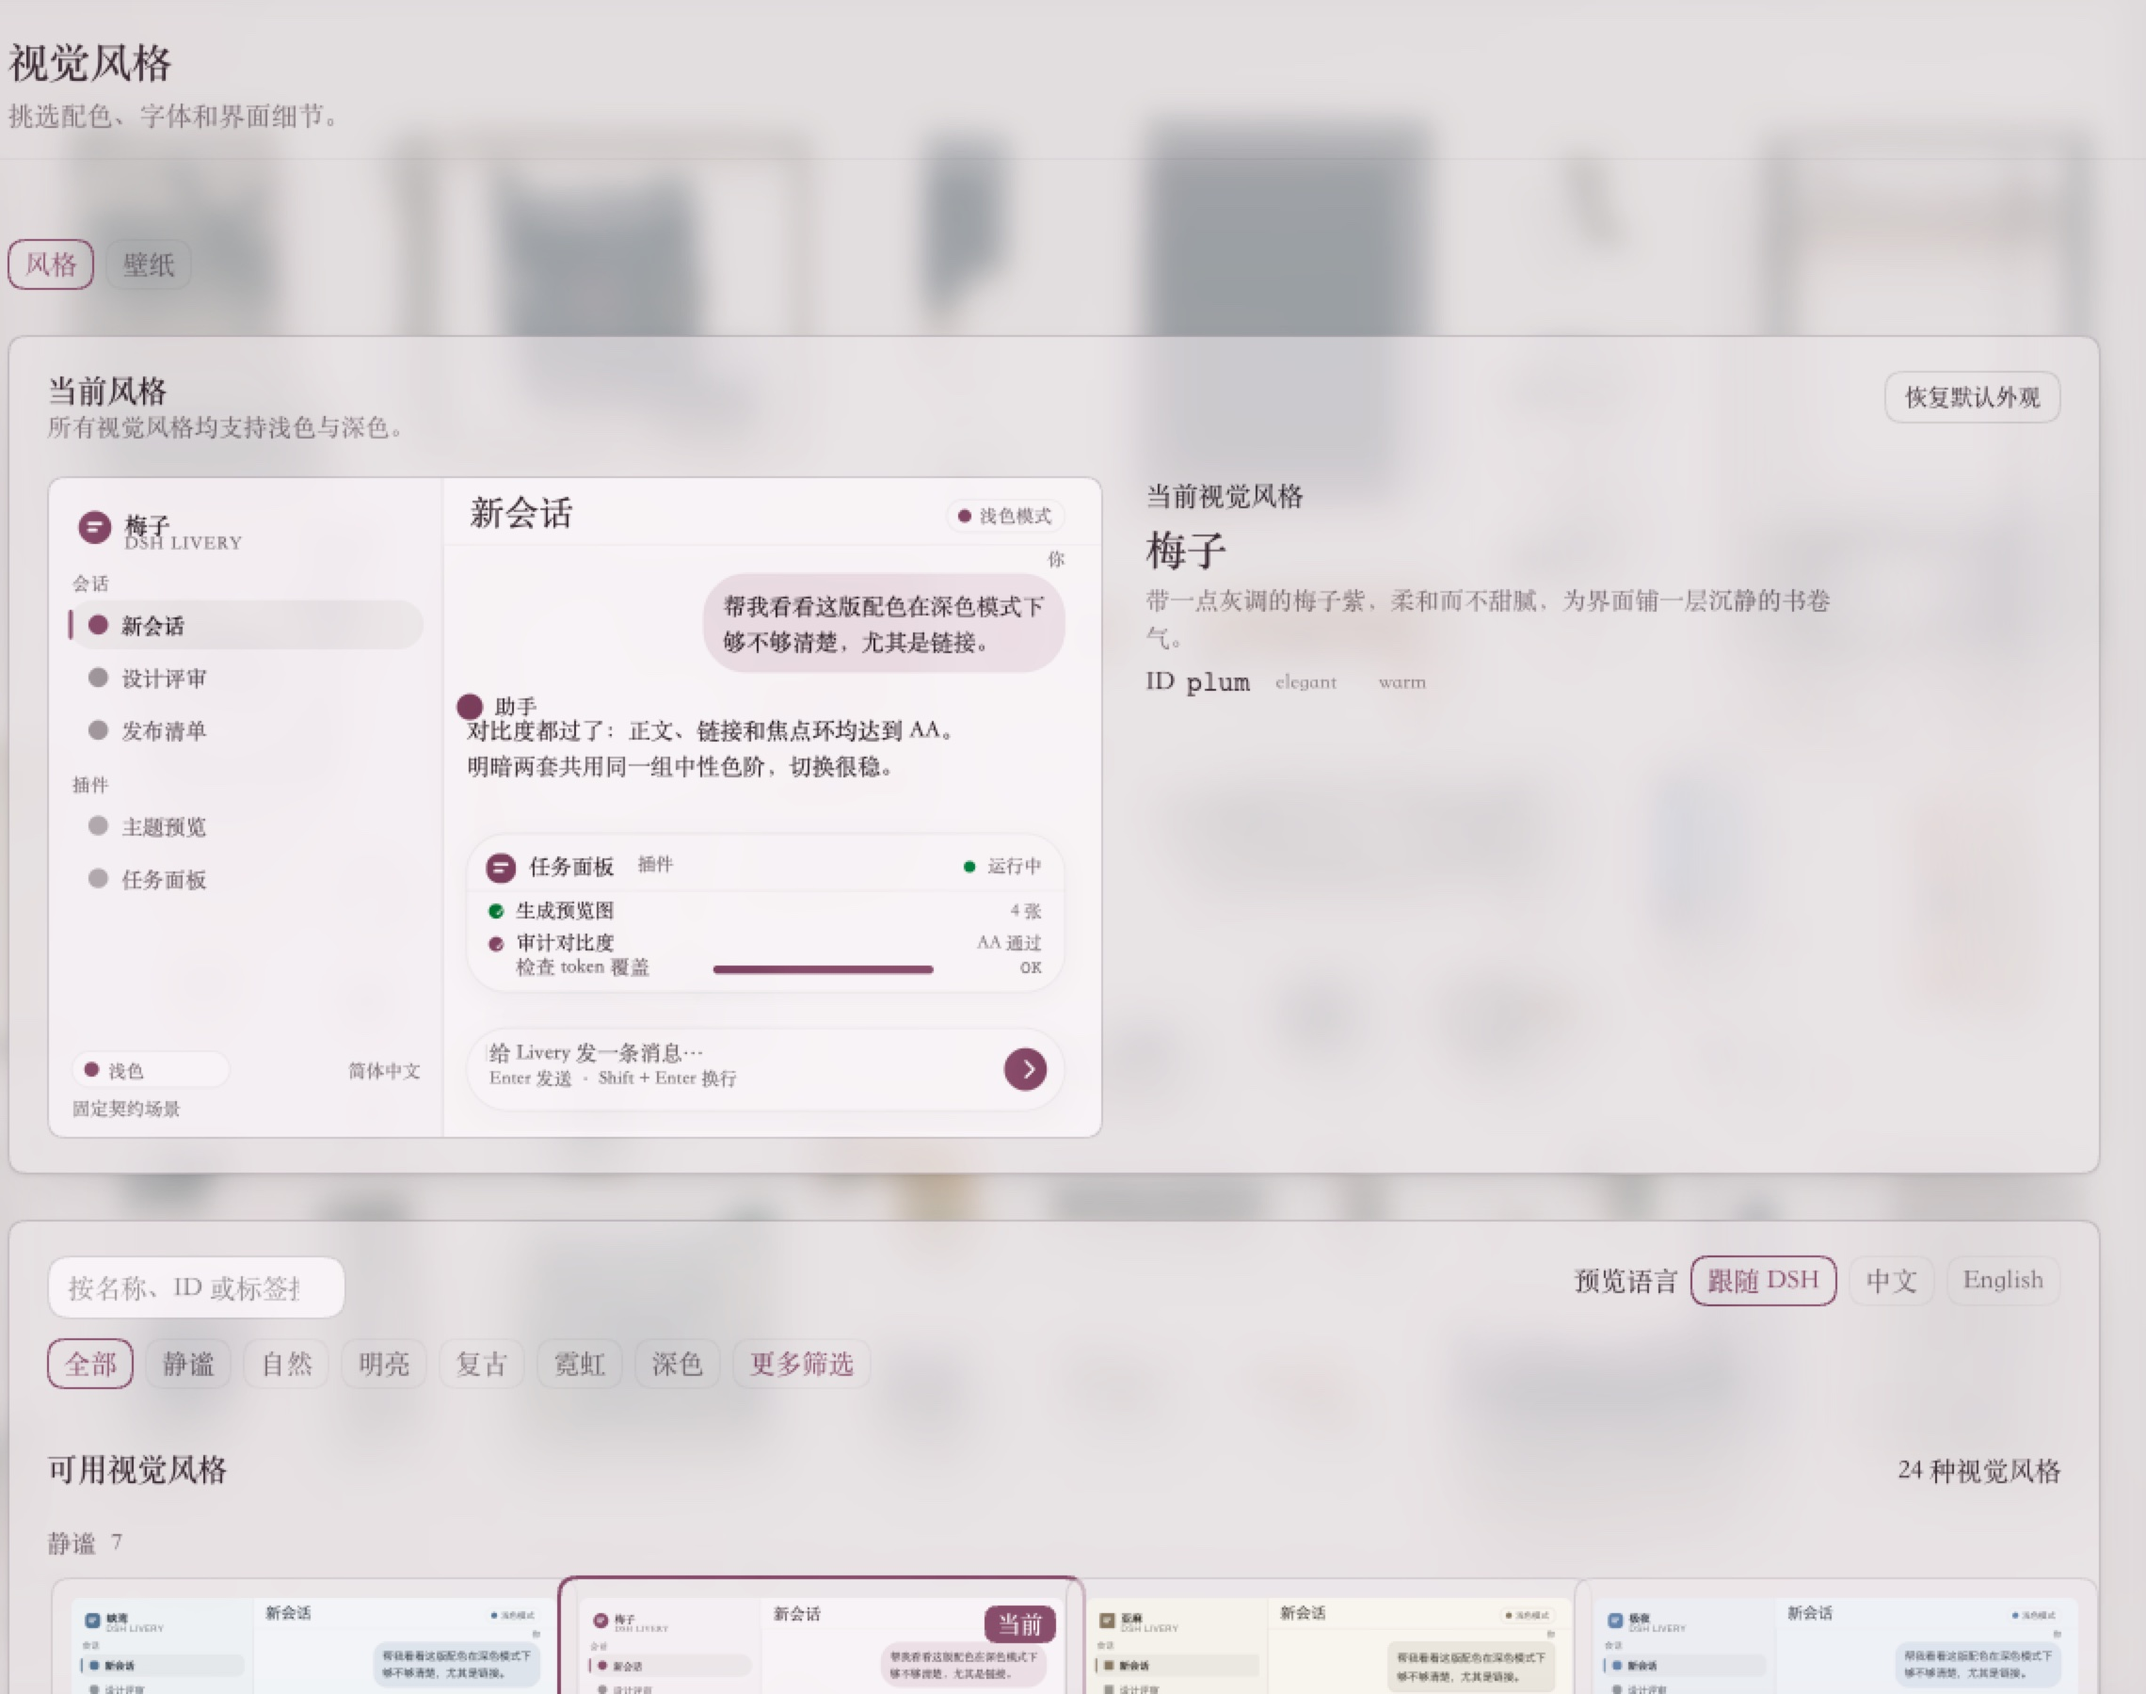
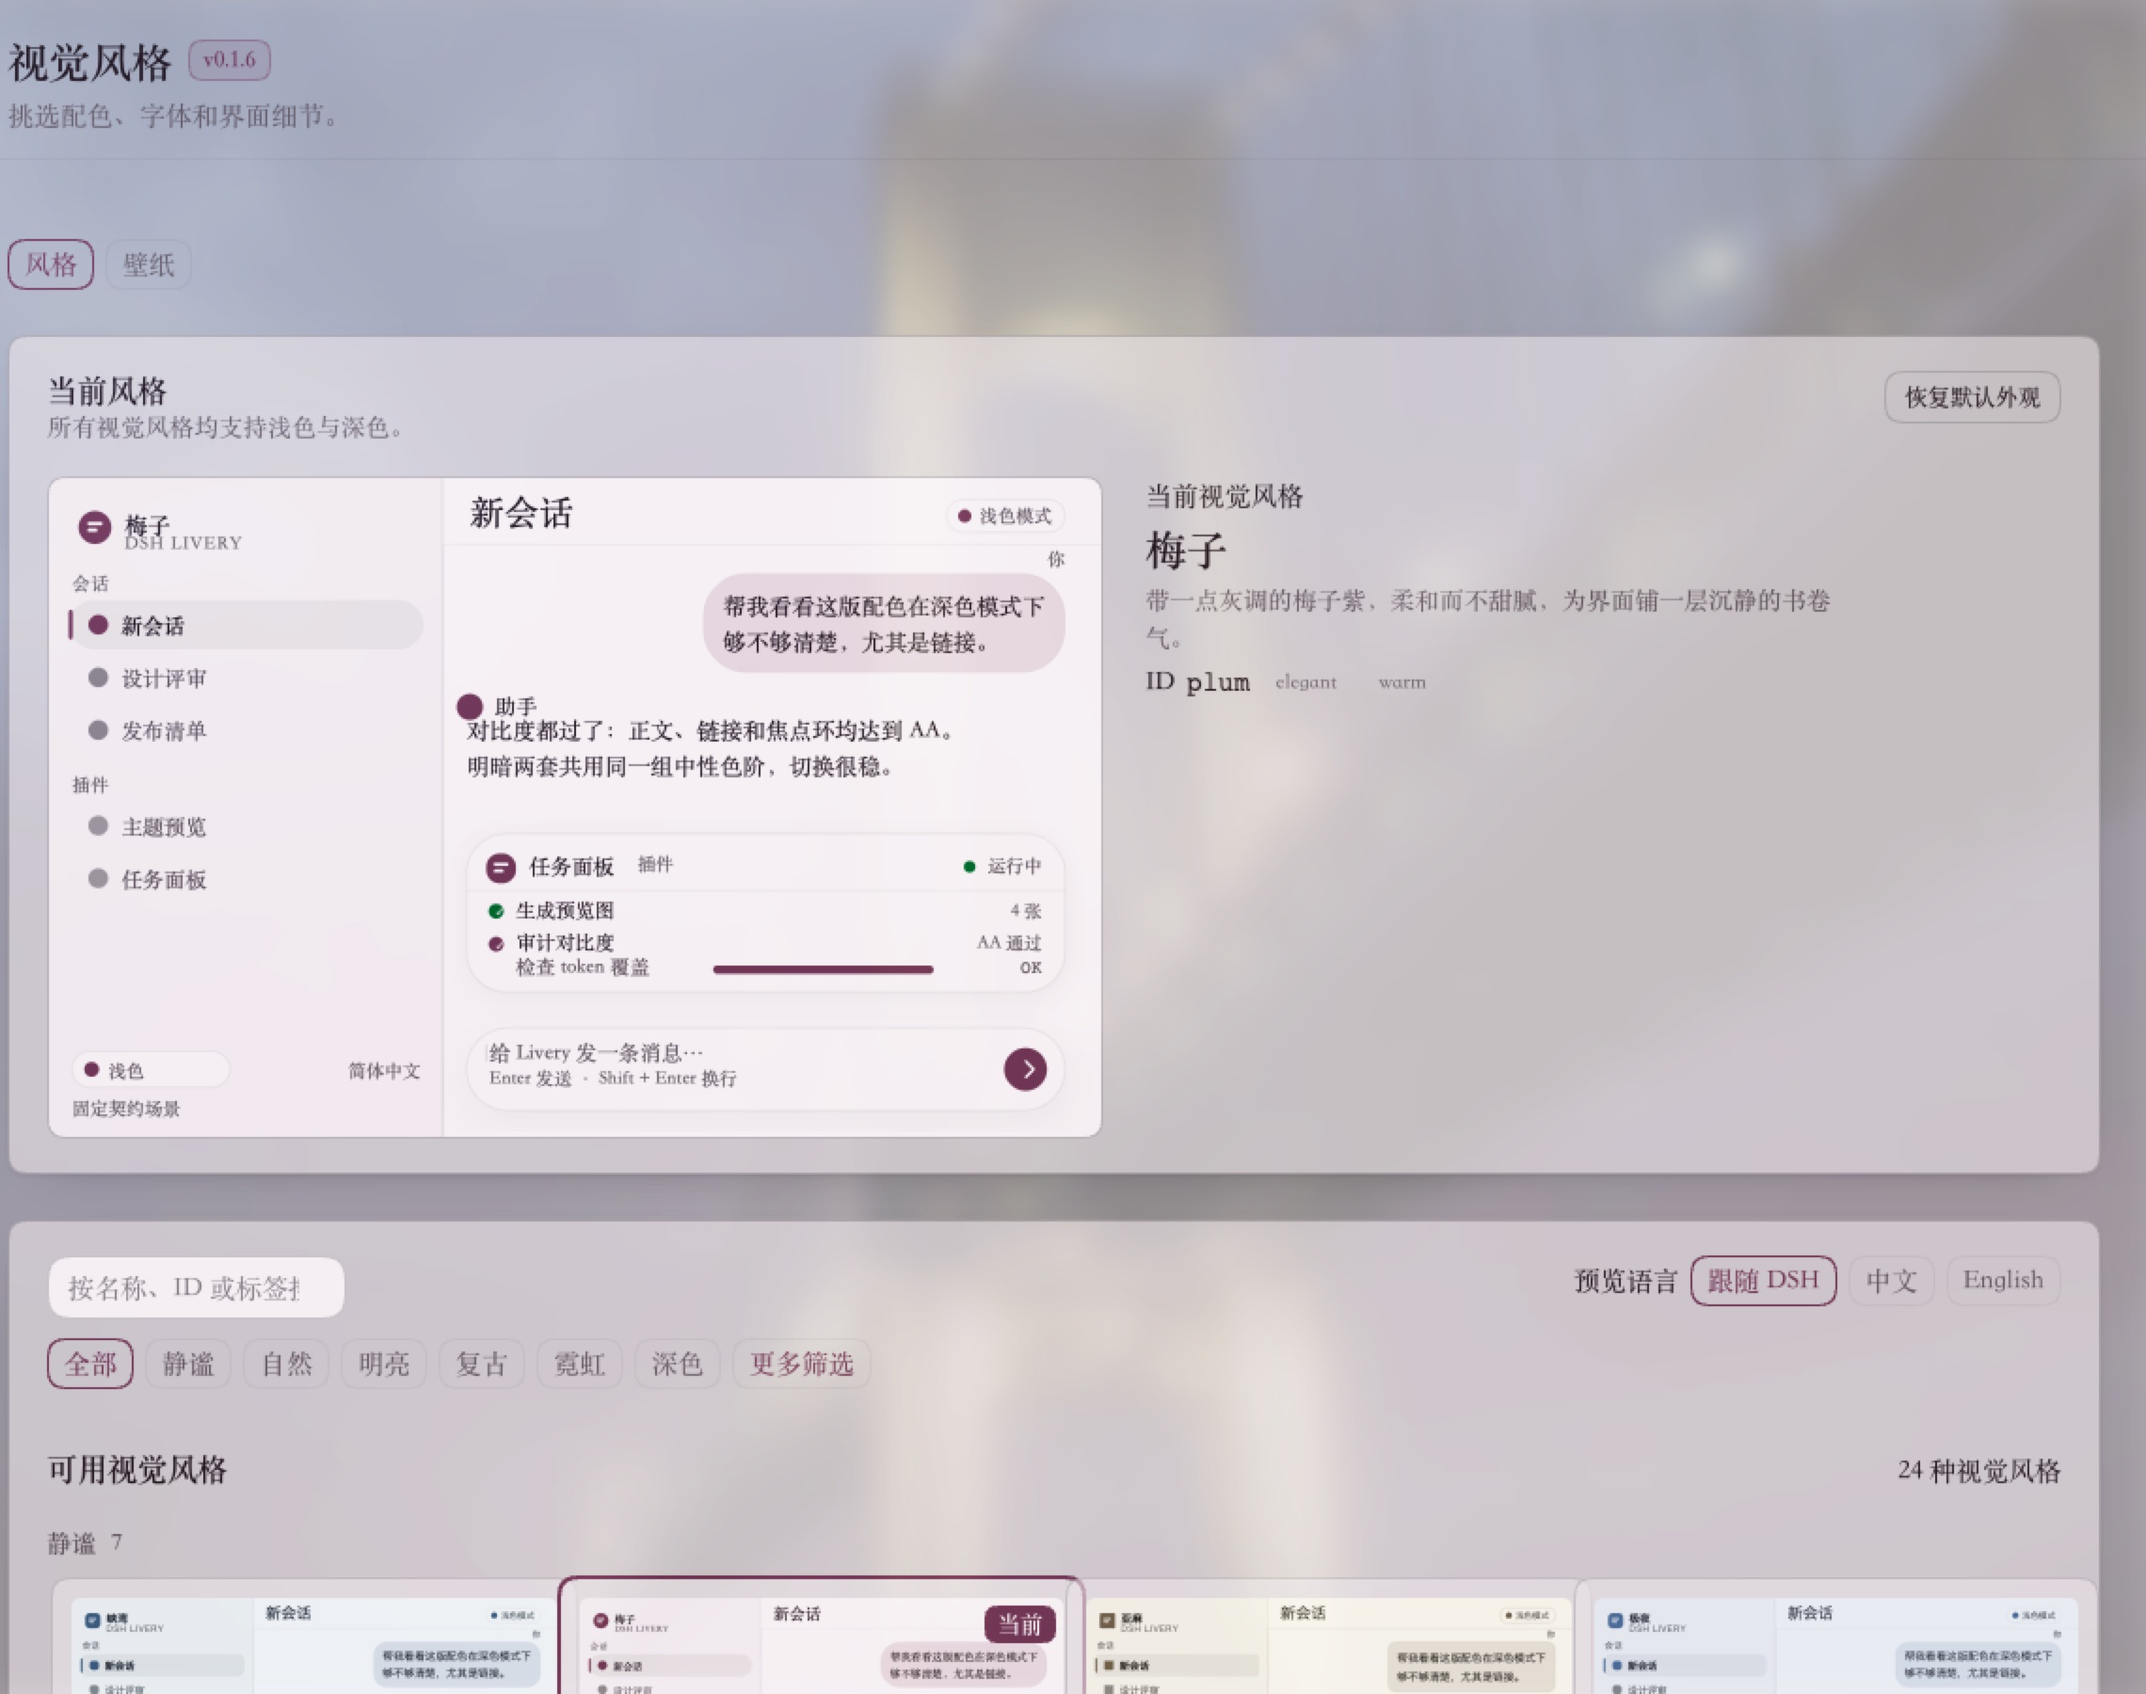
fix: restore the version badge beside the Visual Style title

diff --git a/src/styles/client.ts b/src/styles/client.ts
@@ -20,7 +20,9 @@ export const CLIENT_CSS = `
 
 .livery-section,.livery-settings,.livery-panel,.livery-workspace{--lw-fg:var(--dsw-alias-label-primary);--lw-fs-display:22px;--lw-fs-title:16px;--lw-fs-body:14px;--lw-fs-label:13px;--lw-fs-caption:12px;--lw-lh:1.5;--lw-lh-title:1.3;--lw-lh-control:1.35;--lw-gap-page:24px;--lw-gap-card:16px;--lw-gap-control:8px;--lw-radius-hero:16px;--lw-radius-card:14px;--lw-radius-control:10px;--lw-2:var(--dsw-alias-label-secondary);--lw-3:var(--lw-2);--lw-line:var(--dsw-alias-border-l1);--lw-line2:var(--dsw-alias-border-l2);--lw-brand:var(--dsw-alias-brand-primary);--lw-layer:var(--dsw-alias-bg-layer-1);--lw-layer2:var(--dsh-livery-card-surface,var(--dsw-alias-bg-layer-2));--lw-mono:var(--dsw-font-family-mono);--lw-on-brand:var(--dsw-alias-label-primary-foreground);--lw-err:var(--dsw-alias-state-error-primary);--lw-warn:var(--dsw-alias-state-warn-primary);display:flex;flex-direction:column;gap:var(--lw-gap-page);min-width:0;color:var(--lw-fg);font-family:var(--dsw-font-family,inherit)}
 .livery-head{display:flex;flex-direction:column;gap:6px;min-width:0}
+.livery-title-row{display:flex;flex-wrap:wrap;align-items:center;gap:8px;min-width:0}
 .livery-title,.livery-panel__title{margin:0;font-size:var(--lw-fs-display);font-weight:600;line-height:var(--lw-lh-title)}
+.livery-version{display:inline-flex;align-items:center;padding:1px 7px;border:1px solid color-mix(in srgb,var(--lw-brand) 38%,transparent);border-radius:999px;background:color-mix(in srgb,var(--lw-brand) 10%,transparent);color:var(--lw-brand);font-size:var(--lw-fs-caption);font-weight:600;line-height:var(--lw-lh);white-space:nowrap}
 .livery-subtitle,.livery-hint,.livery-panel__description{margin:0;max-width:62ch;color:var(--lw-2);font-size:var(--lw-fs-body);line-height:var(--lw-lh)}
 .livery-hint{font-size:var(--lw-fs-label);color:var(--lw-3)}
 .livery-sr{position:absolute;width:1px;height:1px;overflow:hidden;clip:rect(0 0 0 0)}

diff --git a/src/client/ui/LiverySettingsPage.tsx b/src/client/ui/LiverySettingsPage.tsx
@@ -6,6 +6,7 @@
  * feature behaves identically wherever it is mounted.
  */
 import { useId } from 'react'
+import { LIVERY_VERSION } from '../../core/types.js'
 import type { LiverySettingsPageProps } from '../platform.js'
 import { LiveryWorkspace } from './LiveryWorkspace.js'
 
@@ -19,7 +20,10 @@ export function LiverySettingsPage({ runtime, t }: LiverySettingsPageProps): JSX
   return (
     <section className="livery-settings" aria-labelledby={headingId}>
       <header className="livery-head">
-        <h2 id={headingId} className="livery-title">{t('section.title')}</h2>
+        <div className="livery-title-row">
+          <h2 id={headingId} className="livery-title">{t('section.title')}</h2>
+          <span className="livery-version" data-testid="livery-version" title={`dsh-livery v${LIVERY_VERSION}`}>v{LIVERY_VERSION}</span>
+        </div>
         <p className="livery-subtitle">{t('section.subtitle')}</p>
       </header>
       <LiveryWorkspace t={t} runtime={runtime} />

diff --git a/src/client/LiveryPanelPage.tsx b/src/client/LiveryPanelPage.tsx
@@ -8,6 +8,7 @@
  * and the `data-testid` contract are identical in both compositions.
  */
 import { useId } from 'react'
+import { LIVERY_VERSION } from '../core/types.js'
 import type { LiveryPanelPageProps } from './platform.js'
 import { LiveryWorkspace } from './ui/LiveryWorkspace.js'
 
@@ -27,7 +28,10 @@ export function LiveryPanelPage({ runtime, t }: LiveryPanelPageProps): JSX.Eleme
       aria-labelledby={headingId}
     >
       <header className="livery-panel__head">
-        <h1 id={headingId} className="livery-panel__title">{t('panel.title')}</h1>
+        <div className="livery-title-row">
+          <h1 id={headingId} className="livery-panel__title">{t('panel.title')}</h1>
+          <span className="livery-version" data-testid="livery-version" title={`dsh-livery v${LIVERY_VERSION}`}>v{LIVERY_VERSION}</span>
+        </div>
         <p className="livery-panel__description">{t('panel.description')}</p>
       </header>
       <div className="livery-panel__body">

diff --git a/CHANGELOG.md b/CHANGELOG.md
@@ -20,6 +20,7 @@ packaging; they are folded into the `0.1.0` entry.
 - 修复壁纸工作台在中等宽度被压成横条、预览图严重裁切的问题：移除 `max-height` 变形约束，保持 16:9；1024px 使用双列工作台，窄屏改回全宽比例预览。
 - 壁纸来源选择保持单卡四页签；来源入口在常见宽度下不再被异常压缩。
 - 壁纸页当前壁纸与效果卡在宽屏等高对齐，避免一侧高一侧低、底边错位；1024/767 使用等高单列，保持左右边缘一致。
+- 恢复“视觉风格”标题旁的插件版本号标识（`v0.1.x`），并加入验收断言防止后续重排时再次丢失。
 - 视觉/布局验收与 README 样式截图改用真实在线 Picsum 壁纸，不再用内置壁纸作为风格、frost、atmosphere 和矩阵截图的基准。
 - 1024/767 壁纸工作台明确采用单列滚动口径；仅 1440 并排布局承诺首屏可见来源页签。
 
